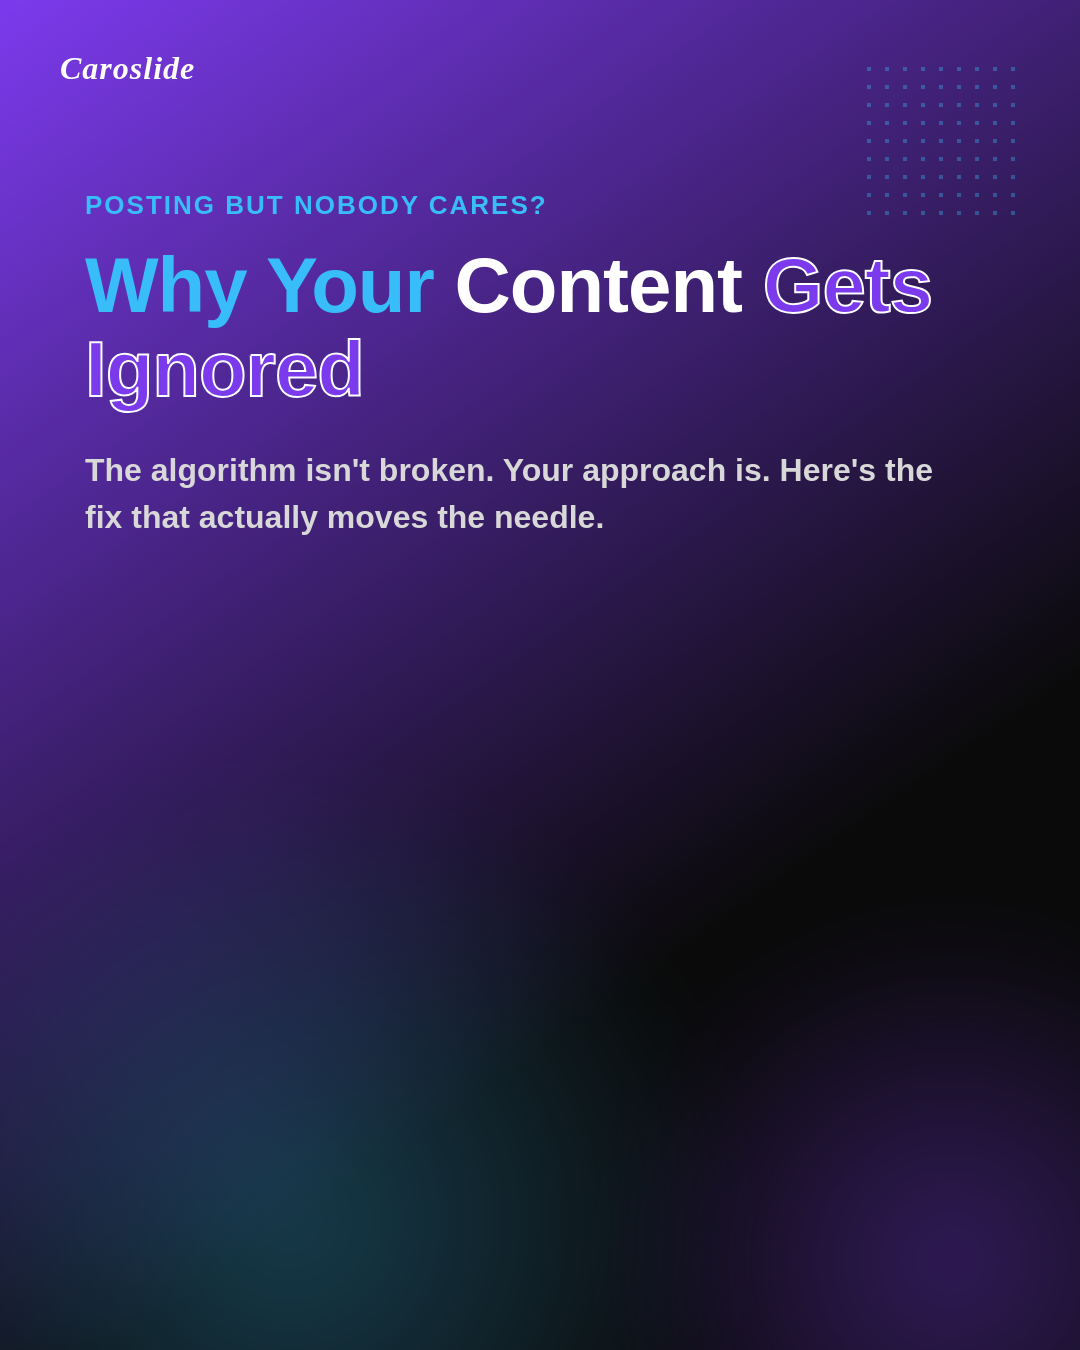
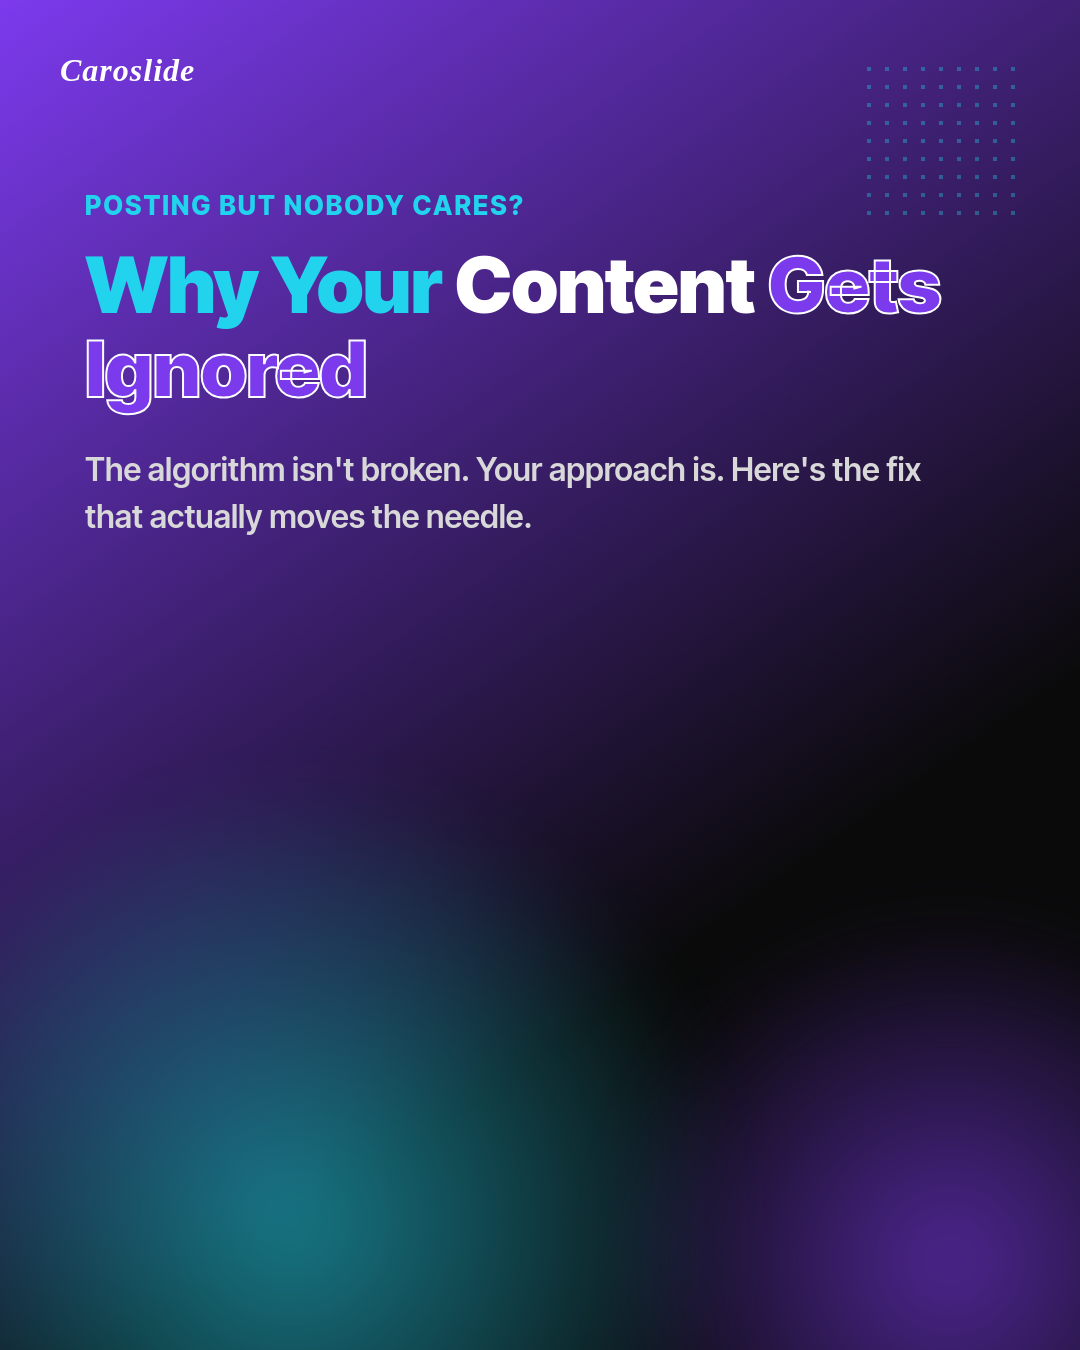
Fix Bold Hook's near-invisible bottom glow, regenerate its preview
Jaylen: "the Bold Hook look mockup card is messed up a bit, looks
off." Verified rather than guessed -- re-rendered the exact current
template through the real Cloudflare pipeline with matching example
values before touching anything, confirming this wasn't a stale
preview: the .glow/.glow2 blobs (added 2026-07-22 specifically to
give the bottom of the frame visual weight when a short hook headline
leaves it empty) were essentially invisible at their original
0.28/0.35 opacity against the dark background, reproducing the exact
dead-empty-void look they were built to prevent.

Bumped opacity substantially (0.28->0.55, 0.35->0.6) and eased the
blur back slightly (40px->32px) so the color actually survives instead
of thinning into nothing. Re-rendered again to confirm the fix
actually shows a visible glow before committing to it, then used that
same corrected render to replace the stale checked-in wizard preview
(public/template-previews/12-hook-block.png), which predated this fix
entirely (still a PNG despite the app's later PNG->JPEG render switch
-- another sign it was stale, not just visually subtle).

This is a real template fix, not just a preview-image swap -- every
real Bold Hook generation gets the more visible glow too.

diff --git a/src/lib/generation/templates/12-hook-block.html b/src/lib/generation/templates/12-hook-block.html
@@ -40,9 +40,16 @@
      the entire bottom two-thirds of the frame as a dead, empty void, same category of complaint
      Jaylen had about Photo Grid's inner slides earlier tonight. A text-length-independent glow
      anchored low in the frame gives the bottom real visual weight regardless of how short the
-     headline ends up being, without touching the safe top-anchored text growth direction at all. */
-  .glow { position:absolute; bottom:-320px; left:-160px; width:900px; height:900px; border-radius:50%; background:radial-gradient({{SECONDARY}} 0%, transparent 70%); opacity:0.28; filter:blur(40px); z-index:1; }
-  .glow2 { position:absolute; bottom:-260px; right:-220px; width:700px; height:700px; border-radius:50%; background:radial-gradient({{PRIMARY}} 0%, transparent 70%); opacity:0.35; filter:blur(40px); z-index:1; }
+     headline ends up being, without touching the safe top-anchored text growth direction at all.
+
+     Real bug found live 2026-07-25 (Jaylen: "looks off" on the wizard's own Look-picker preview):
+     re-rendered this exact template through the real Cloudflare pipeline to confirm before
+     touching anything -- the glow at its original 0.28/0.35 opacity was essentially invisible
+     against the dark base, leaving the same dead empty look this comment says it was built to
+     fix. Bumped opacity substantially (0.28->0.55, 0.35->0.6) and eased the blur back slightly
+     (40px->32px) so more of the actual color survives instead of thinning out into nothing. */
+  .glow { position:absolute; bottom:-320px; left:-160px; width:900px; height:900px; border-radius:50%; background:radial-gradient({{SECONDARY}} 0%, transparent 70%); opacity:0.55; filter:blur(32px); z-index:1; }
+  .glow2 { position:absolute; bottom:-260px; right:-220px; width:700px; height:700px; border-radius:50%; background:radial-gradient({{PRIMARY}} 0%, transparent 70%); opacity:0.6; filter:blur(32px); z-index:1; }
 
   /* Pure-CSS dot-grid accent -- same corner-decoration idea CarouselMaker's templates use (a
      small repeating motif, not a stock photo), done as a radial-gradient tile so it costs no
